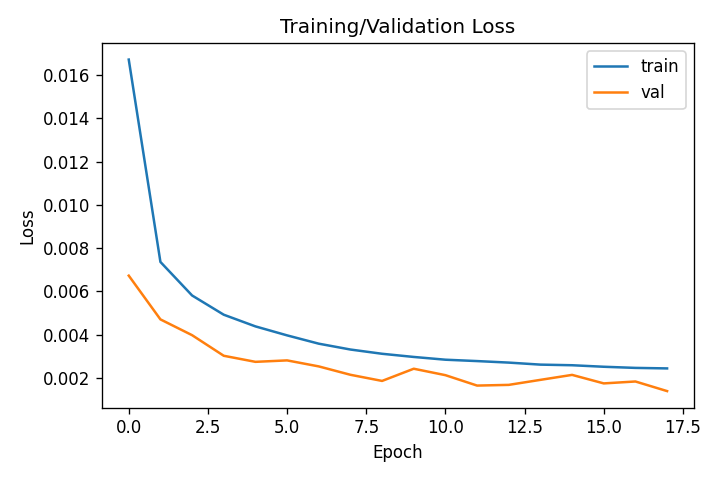
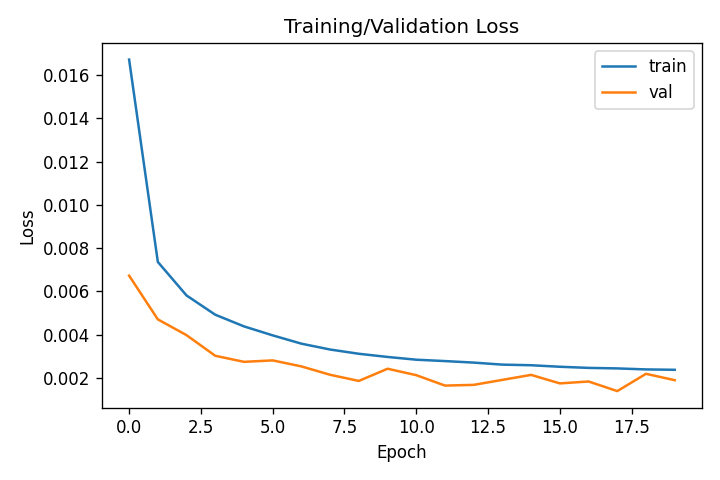
final submission

diff --git a/train.py b/train.py
@@ -98,7 +98,7 @@ PRETRAINED_MODEL_20DRF = os.path.join(MODEL_DIR, "nnformer_20251104_2059_drf20_e
 FILTERS_20DRF = [8, 16, 32, 64]
 NUM_LAYERS_20DRF = len(FILTERS_20DRF)
 
-PRETRAINED_MODEL_10DRF = os.path.join(MODEL_DIR,  ".pt")
+PRETRAINED_MODEL_10DRF = os.path.join(MODEL_DIR,  "nnformer_20251105_0201_drf10_epoch018.pt")
 FILTERS_10DRF = [8, 16, 32, 64]
 NUM_LAYERS_10DRF = len(FILTERS_10DRF)
 
